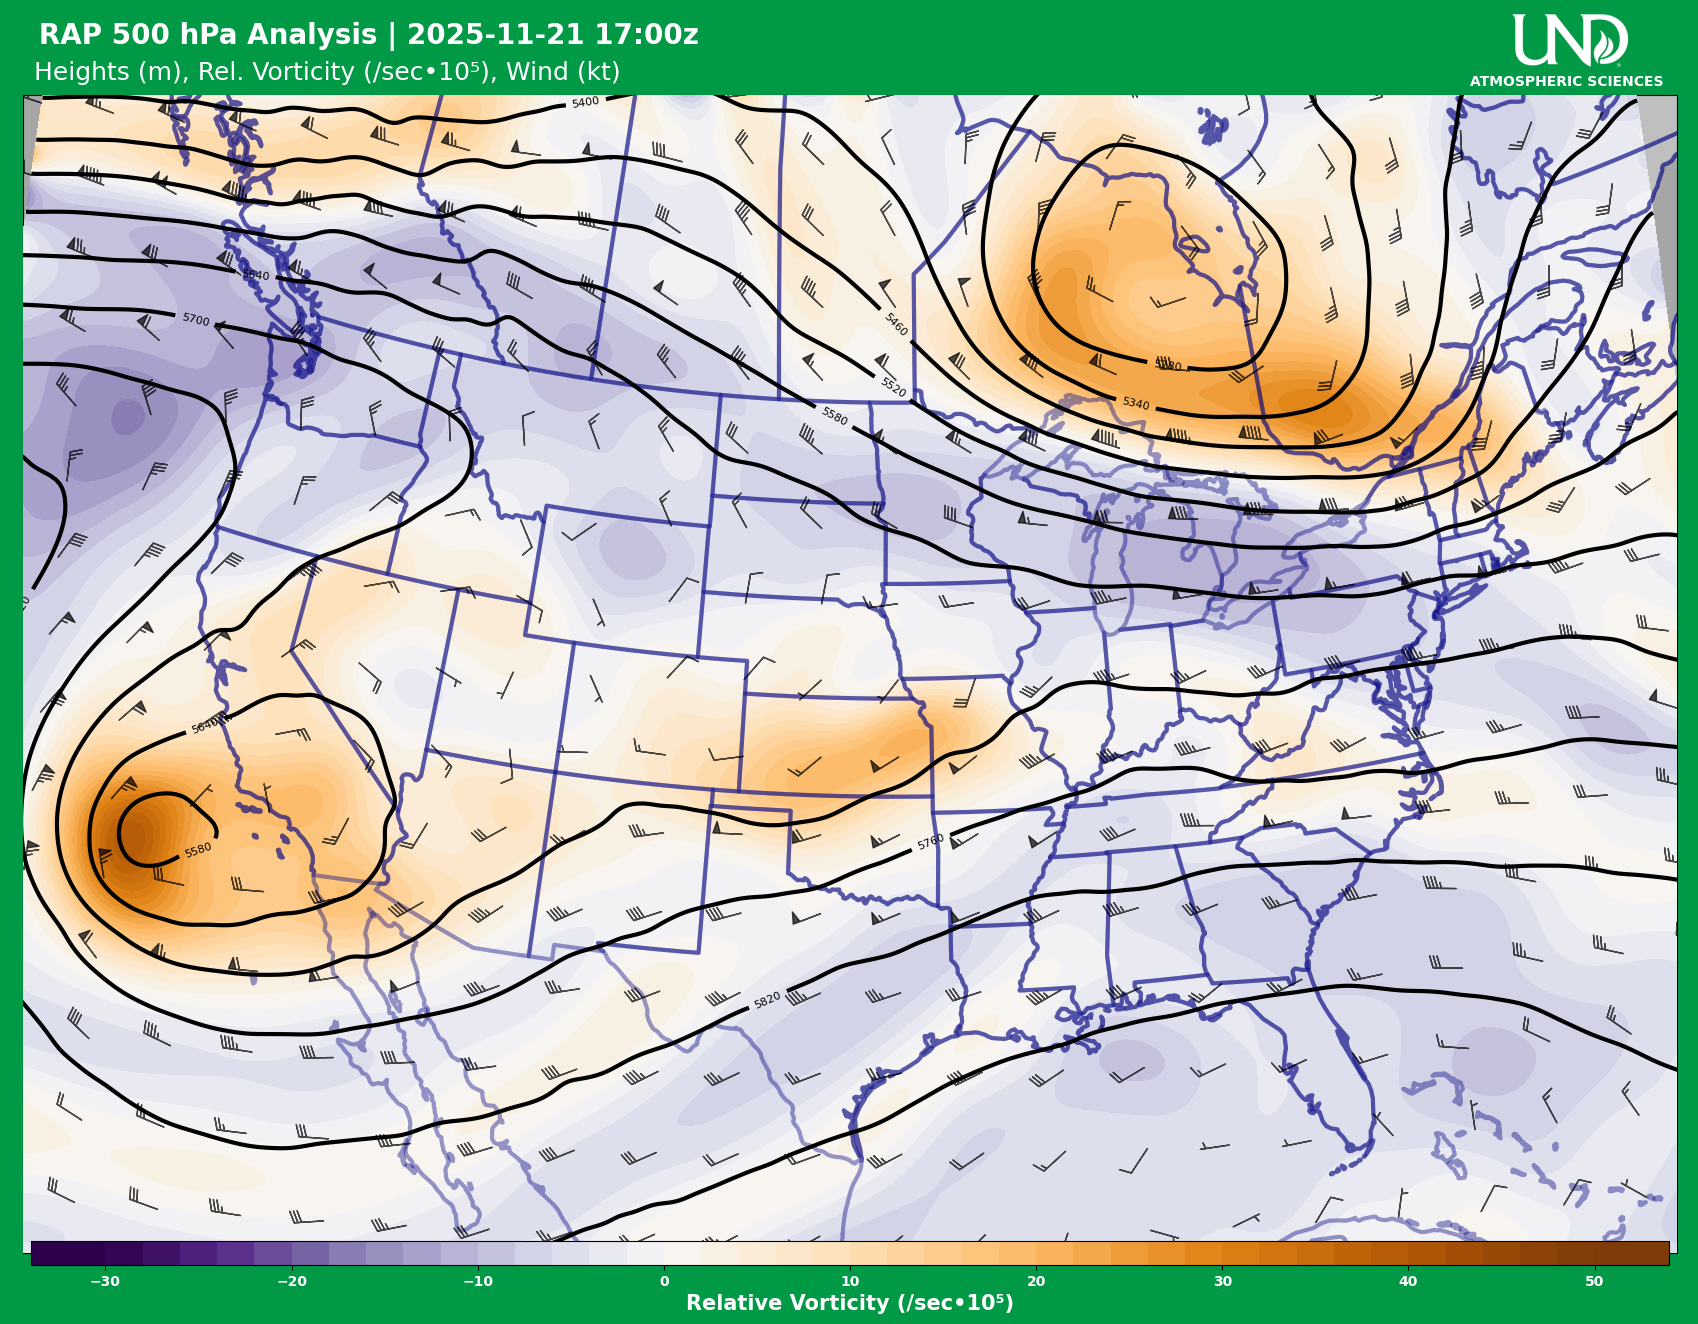
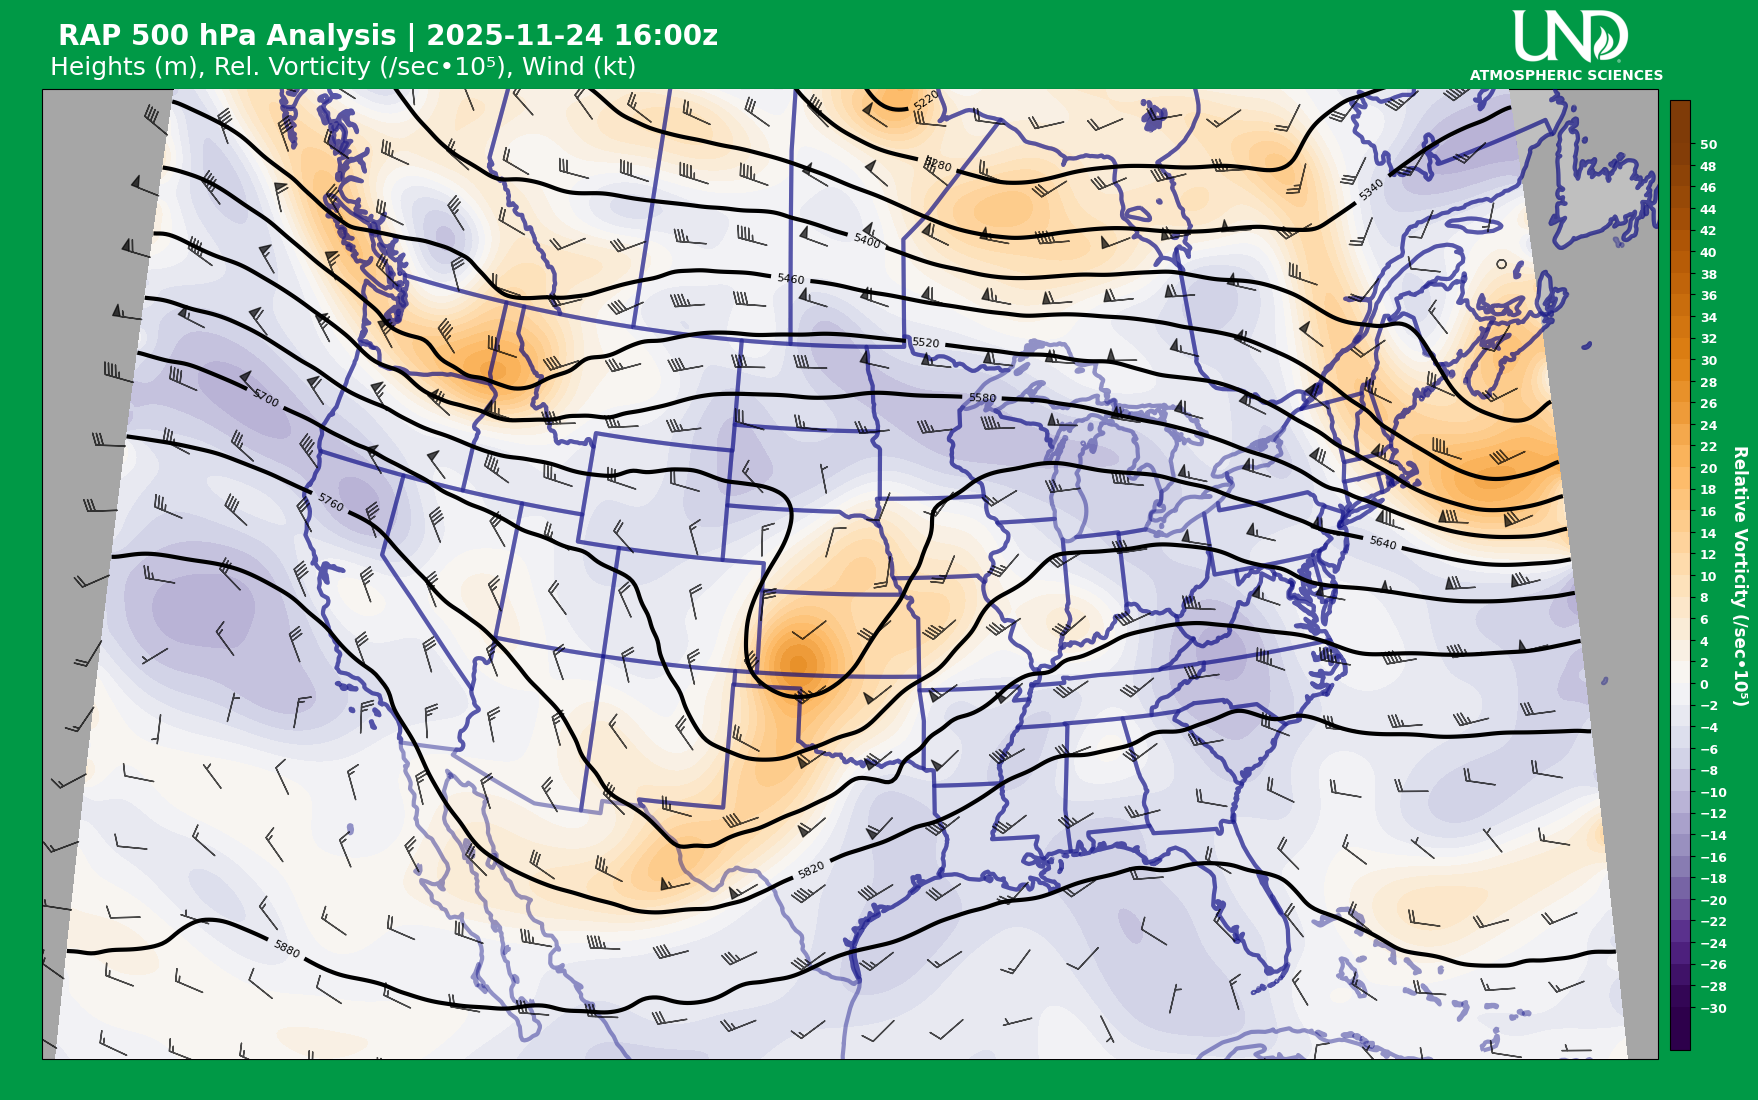
Update RAP analysis figsize, aspect, colorbars, domain size, and background img tile

diff --git a/build_figures/build_conus_rap_analysis.py b/build_figures/build_conus_rap_analysis.py
@@ -61,7 +61,7 @@ utc_now = [utc_date.strftime("%Y"), utc_date.strftime("%m"), utc_date.strftime("
 # set up rap retrieval 
 center_lat = 46.841203
 center_lon = -98.777673
-box_size   = 35
+box_size   = 50
 west = center_lon  - box_size
 east = center_lon  + box_size
 south = center_lat - box_size
@@ -235,13 +235,13 @@ xrds.close()
 #############################################################################################################################################################################
 
 # build map function
-def build_map(extent=[-122, -73, 21, 56], projection=ccrs.LambertConformal(), style='light'):
-    fig = plt.figure(figsize=(20, 12))
+def build_map(extent=[-122, -73, 21, 56], add_sat=False, projection=ccrs.LambertConformal(), style='light'):
+    fig = plt.figure(figsize=(20, 10))
     fig.set_facecolor('#009946')
     ax = plt.axes(projection=projection)
 
     ax.set_extent(extent)
-    ax.set_box_aspect(0.7)
+    ax.set_box_aspect(0.6)
 
     if style == 'light':
         color = 'gray'
@@ -251,9 +251,13 @@ def build_map(extent=[-122, -73, 21, 56], projection=ccrs.LambertConformal(), st
         alpha = 0.8
 
     ax.add_feature(cfeature.STATES, edgecolor='navy', alpha=0.4, linestyle='-', linewidth=3, zorder=10)
-    ax.add_feature(cfeature.LAND, facecolor=color, alpha=alpha, zorder=1)
+    ax.add_feature(cfeature.LAND, facecolor=color, alpha=alpha, zorder=0.1)
     ax.add_feature(cfeature.OCEAN, facecolor=color, alpha=alpha + 0.2, zorder=0)
     ax.add_feature(cfeature.COASTLINE, color='navy', alpha=0.4, linestyle='-', linewidth=3, zorder=11)
+    if add_sat:
+        from cartopy.io import img_tiles
+        satellite = img_tiles.GoogleTiles(style='satellite')
+        ax.add_image(satellite, 4)
 
     plt.tight_layout()
 
@@ -272,7 +276,7 @@ def build_map(extent=[-122, -73, 21, 56], projection=ccrs.LambertConformal(), st
 #################################
 # BUILD 300 HPA MAP
 #################################
-fig, ax = build_map()
+fig, ax = build_map(add_sat=True)
 
 # slice data
 plev300 = np.where(pres_levs == 300)[0][0]
@@ -289,7 +293,7 @@ plt.clabel(contour, fontsize=8, inline=1, inline_spacing=10, fmt='%i',
            rightside_up=True, use_clabeltext=True)
 
 # plot 300 hpa wind speed
-contourf = ax.contourf(lons, lats, wdsp_300, np.arange(50, 160, 5), extend='both',
+contourf = ax.contourf(lons, lats, wdsp_300, np.arange(50, 160, 5), extend='max',
                  cmap=wdsp_cmap, alpha=0.7, transform=ccrs.PlateCarree(), zorder=4)
 
 # plot 300 hpa wind barbs
@@ -298,16 +302,20 @@ barbs = ax.barbs(lons.values[0::every, 0::every], lats.values[0::every, 0::every
                 uwnd_300[0::every, 0::every], vwnd_300[0::every, 0::every],
                 length=6.5, alpha=0.7, transform=ccrs.PlateCarree(), zorder=12)
 
+
 # plot title, add one to the left with model name and data names, add another to the right with time info
-plt.figtext(0.08, 1.03, f'   RAP 300 hPa Analysis | {valid_date[0:10]} {valid_date[11:-13]}z', weight='bold', ha='left', fontsize=20, color='white')
-plt.figtext(0.08, 1.00, f'   Heights (m), Wind (kt)', ha='left', fontsize=18, color='white')
+plt.figtext(0.08, 1.03, f'     RAP 300 hPa Analysis | {valid_date[0:10]} {valid_date[11:-13]}z', weight='bold', ha='left', fontsize=20, color='white')
+plt.figtext(0.08, 1.00, f'     Heights (m), Wind (kt)', ha='left', fontsize=18, color='white')
 plt.figtext(0.915, 1.04, f' ', ha='left', fontsize=20)
-# colorbar for filled contour
-cbar = plt.colorbar(contourf, aspect=70, fraction=0.02, ax=ax, orientation='horizontal', pad=-0.01, extendrect=True)
-cbar.set_label('Wind Speed (kts)', fontsize=15, color='white', fontweight='bold')
-cbar.ax.tick_params(labelcolor='white')
-for t in cbar.ax.get_xticklabels():
+plt.figtext(0.915, -0.01, f' ', ha='left', fontsize=20)
+cax = fig.add_axes([0.91, 0.024, 0.01, 0.95])
+cbar = fig.colorbar(contourf, cax=cax, orientation='vertical', ticks=np.arange(50, 160, 5)[::1], extendrect=True)
+cax.text(3, 0.5, f'Wind Speed (kts)',ha='left',va='center',rotation=270, color='white',fontsize=12,fontweight='bold',transform=cax.transAxes)
+cbar.ax.tick_params(axis='y', labelcolor='white') 
+for t in cbar.ax.get_yticklabels():
     t.set_fontweight('bold')
+    t.set_fontsize(9)
+cbar.ax.set_facecolor('black')
 
 # add UND logo
 from PIL import Image
@@ -367,15 +375,18 @@ barbs = ax.barbs(lons.values[0::every, 0::every], lats.values[0::every, 0::every
                 length=6.5, alpha=0.7, transform=ccrs.PlateCarree(), zorder=11)
 
 # plot title, add one to the left with model name and data names, add another to the right with time info
-plt.figtext(0.08, 1.03, f'   RAP 300 hPa Analysis | {valid_date[0:10]} {valid_date[11:-13]}z', weight='bold', ha='left', fontsize=20, color='white')
-plt.figtext(0.08, 1.00, f'   Heights (m), Potential Vorticity (PVU), Wind (kt)', ha='left', fontsize=18, color='white')
+plt.figtext(0.08, 1.03, f'     RAP 300 hPa Analysis | {valid_date[0:10]} {valid_date[11:-13]}z', weight='bold', ha='left', fontsize=20, color='white')
+plt.figtext(0.08, 1.00, f'     Heights (m), Potential Vorticity (PVU), Wind (kt)', ha='left', fontsize=18, color='white')
 plt.figtext(0.915, 1.04, f' ', ha='left', fontsize=20)
-# colorbar for filled contour
-cbar = plt.colorbar(contourf, aspect=70, fraction=0.02, ax=ax, orientation='horizontal', pad=-0.01, extendrect=True)
-cbar.set_label(r'Potential Vorticity Units (PVU; $\rm{10^{-6}\ K\ kg^{-1}\ m^{2}\ s^{-1}})$' + ' | 2PVU (dashed)',  fontsize=15, color='white', fontweight='bold')
-cbar.ax.tick_params(labelcolor='white')
-for t in cbar.ax.get_xticklabels():
+plt.figtext(0.915, -0.01, f' ', ha='left', fontsize=20)
+cax = fig.add_axes([0.91, 0.024, 0.01, 0.95])
+cbar = fig.colorbar(contourf, cax=cax, orientation='vertical', ticks=pv_clevs[::5], extendrect=True)
+cax.text(3, 0.5, r'Potential Vorticity Units (PVU; $\rm{10^{-6}\ K\ kg^{-1}\ m^{2}\ s^{-1}})$' + ' | 2PVU (dashed)', ha='left',va='center',rotation=270, color='white',fontsize=12,fontweight='bold',transform=cax.transAxes)
+cbar.ax.tick_params(axis='y', labelcolor='white') 
+for t in cbar.ax.get_yticklabels():
     t.set_fontweight('bold')
+    t.set_fontsize(9)
+cbar.ax.set_facecolor('black')
 
 
 # add UND logo
@@ -407,7 +418,7 @@ print("    FINISHED 300HPA PVA MAP")
 #################################
 # BUILD 500HPA FLOW MAP
 #################################
-fig, ax = build_map()
+fig, ax = build_map(add_sat=True)
 
 # slice data 
 plev500 = np.where(pres_levs == 500)[0][0]
@@ -425,7 +436,7 @@ plt.clabel(contour, fontsize=8, inline=1, inline_spacing=10, fmt='%i',
            rightside_up=True, use_clabeltext=True)
 
 # plot 500hpa wind speed
-contourf = ax.contourf(lons, lats, wdsp_500, np.arange(30, 140, 5), extend='both',
+contourf = ax.contourf(lons, lats, wdsp_500, np.arange(30, 140, 5), extend='max',
                  cmap=wdsp_cmap, alpha=0.7, transform=ccrs.PlateCarree(), zorder=4)
 
 # plot 500 hpa wind barbs
@@ -435,15 +446,18 @@ barbs = ax.barbs(lons.values[0::every, 0::every], lats.values[0::every, 0::every
                 length=6.5, alpha=0.7, transform=ccrs.PlateCarree(), zorder=12)
 
 # plot title, add one to the left with model name and data names, add another to the right with time info
-plt.figtext(0.08, 1.03, f'   RAP 500 hPa Analysis | {valid_date[0:10]} {valid_date[11:-13]}z', weight='bold', ha='left', fontsize=20, color='white')
-plt.figtext(0.08, 1.00, f'   Heights (m), Wind (kt)', ha='left', fontsize=18, color='white')
+plt.figtext(0.08, 1.03, f'     RAP 500 hPa Analysis | {valid_date[0:10]} {valid_date[11:-13]}z', weight='bold', ha='left', fontsize=20, color='white')
+plt.figtext(0.08, 1.00, f'     Heights (m), Wind (kt)', ha='left', fontsize=18, color='white')
 plt.figtext(0.915, 1.04, f' ', ha='left', fontsize=20)
-# colorbar for filled contour
-cbar = plt.colorbar(contourf, aspect=70, fraction=0.02, ax=ax, orientation='horizontal', pad=-0.01, extendrect=True)
-cbar.set_label('Wind Speed (kts)',  fontsize=15, color='white', fontweight='bold')
-cbar.ax.tick_params(labelcolor='white')
-for t in cbar.ax.get_xticklabels():
+plt.figtext(0.915, -0.01, f' ', ha='left', fontsize=20)
+cax = fig.add_axes([0.91, 0.024, 0.01, 0.95])
+cbar = fig.colorbar(contourf, cax=cax, orientation='vertical', ticks=np.arange(30, 140, 5), extendrect=True)
+cax.text(3, 0.5, 'Wind Speed (kts)', ha='left',va='center',rotation=270, color='white',fontsize=12,fontweight='bold',transform=cax.transAxes)
+cbar.ax.tick_params(axis='y', labelcolor='white') 
+for t in cbar.ax.get_yticklabels():
     t.set_fontweight('bold')
+    t.set_fontsize(9)
+cbar.ax.set_facecolor('black')
 
 
 # add UND logo
@@ -508,16 +522,18 @@ barbs = ax.barbs(lons.values[0::every, 0::every], lats.values[0::every, 0::every
                 length=6.5, alpha=0.7, transform=ccrs.PlateCarree(), zorder=12)
 
 # plot title, add one to the left with model name and data names, add another to the right with time info
-plt.figtext(0.08, 1.03, f'   RAP 500 hPa Analysis | {valid_date[0:10]} {valid_date[11:-13]}z', weight='bold', ha='left', fontsize=20, color='white')
-plt.figtext(0.08, 1.00, f'   Heights (m), Rel. Vorticity (/sec•10⁵), Wind (kt)', ha='left', fontsize=18, color='white')
+plt.figtext(0.08, 1.03, f'     RAP 500 hPa Analysis | {valid_date[0:10]} {valid_date[11:-13]}z', weight='bold', ha='left', fontsize=20, color='white')
+plt.figtext(0.08, 1.00, f'     Heights (m), Rel. Vorticity (/sec•10⁵), Wind (kt)', ha='left', fontsize=18, color='white')
 plt.figtext(0.915, 1.04, f' ', ha='left', fontsize=20)
-# colorbar for filled contour
-cbar = plt.colorbar(vort_cf, aspect=70, fraction=0.02, ax=ax, orientation='horizontal', pad=-0.01, extendrect=True)
-cbar.set_label('Relative Vorticity (/sec•10⁵)',  fontsize=15, color='white', fontweight='bold')
-cbar.ax.tick_params(labelcolor='white')
-for t in cbar.ax.get_xticklabels():
+plt.figtext(0.915, -0.01, f' ', ha='left', fontsize=20)
+cax = fig.add_axes([0.91, 0.024, 0.01, 0.95])
+cbar = fig.colorbar(vort_cf, cax=cax, orientation='vertical', ticks=np.arange(-30, 52, 2), extendrect=True)
+cax.text(3, 0.5, 'Relative Vorticity (/sec•10⁵)', ha='left',va='center',rotation=270, color='white',fontsize=12,fontweight='bold',transform=cax.transAxes)
+cbar.ax.tick_params(axis='y', labelcolor='white') 
+for t in cbar.ax.get_yticklabels():
     t.set_fontweight('bold')
-
+    t.set_fontsize(9)
+cbar.ax.set_facecolor('black')
 
 
 # add UND logo
@@ -573,15 +589,18 @@ barbs = ax.barbs(lons.values[0::every, 0::every], lats.values[0::every, 0::every
                 length=6.5, alpha=0.7, transform=ccrs.PlateCarree(), zorder=12)
 
 # plot title, add one to the left with model name and data names, add another to the right with time info
-plt.figtext(0.08, 1.03, f'   RAP 500 hPa Analysis | {valid_date[0:10]} {valid_date[11:-13]}z', weight='bold', ha='left', fontsize=20, color='white')
-plt.figtext(0.08, 1.00, f'   Heights (m), Rel. Vorticity Adv. (sec⁻²•10⁹), Wind (kt)', ha='left', fontsize=18, color='white')
+plt.figtext(0.08, 1.03, f'     RAP 500 hPa Analysis | {valid_date[0:10]} {valid_date[11:-13]}z', weight='bold', ha='left', fontsize=20, color='white')
+plt.figtext(0.08, 1.00, f'     Heights (m), Rel. Vorticity Adv. (sec⁻²•10⁹), Wind (kt)', ha='left', fontsize=18, color='white')
 plt.figtext(0.915, 1.04, f' ', ha='left', fontsize=20)
-# colorbar for filled contour
-cbar = plt.colorbar(vortadv_cf, aspect=70, fraction=0.02, ax=ax, orientation='horizontal', pad=-0.01, extendrect=True)
-cbar.set_label('Relative Vorticity Advection (sec⁻²•10⁹)',  fontsize=15, color='white', fontweight='bold')
-cbar.ax.tick_params(labelcolor='white')
-for t in cbar.ax.get_xticklabels():
+plt.figtext(0.915, -0.01, f' ', ha='left', fontsize=20)
+cax = fig.add_axes([0.91, 0.024, 0.01, 0.95])
+cbar = fig.colorbar(vortadv_cf, cax=cax, orientation='vertical', ticks=np.arange(-40, 42, 2), extendrect=True)
+cax.text(3, 0.5, 'Relative Vorticity Advection (sec⁻²•10⁹)', ha='left',va='center',rotation=270, color='white',fontsize=12,fontweight='bold',transform=cax.transAxes)
+cbar.ax.tick_params(axis='y', labelcolor='white') 
+for t in cbar.ax.get_yticklabels():
     t.set_fontweight('bold')
+    t.set_fontsize(9)
+cbar.ax.set_facecolor('black')
 
 # add UND logo
 from PIL import Image
@@ -649,15 +668,19 @@ barbs = ax.barbs(lons.values[0::every, 0::every], lats.values[0::every, 0::every
                 length=6.5, alpha=0.7, transform=ccrs.PlateCarree(), zorder=11)
 
 # plot title, add one to the left with model name and data names, add another to the right with time info
-plt.figtext(0.08, 1.03, f'   RAP 850 hPa Analysis | {valid_date[0:10]} {valid_date[11:-13]}z', weight='bold', ha='left', fontsize=20, color='white')
-plt.figtext(0.08, 1.00, f'   Heights (m), 3hr Temperature Adv (C/3hr), Frontogenesis (>2'+u'\xb0'+'C / 100km / 3hr), Wind (kt)', ha='left', fontsize=18, color='white')
+plt.figtext(0.08, 1.03, f'     RAP 850 hPa Analysis | {valid_date[0:10]} {valid_date[11:-13]}z', weight='bold', ha='left', fontsize=20, color='white')
+plt.figtext(0.08, 1.00, f'     Heights (m), 3hr Temperature Adv (C/3hr), Frontogenesis (>2'+u'\xb0'+'C / 100km / 3hr), Wind (kt)', ha='left', fontsize=18, color='white')
 plt.figtext(0.915, 1.04, f' ', ha='left', fontsize=20)
-# colorbar for filled contour
-cbar = plt.colorbar(tadv_contourf, aspect=70, fraction=0.02, ax=ax, orientation='horizontal', pad=-0.01, extendrect=True)
-cbar.set_label('Temperature Advection' + ' ('+u'\xb0'+'C / 3hr)',  fontsize=15, color='white', fontweight='bold')
-cbar.ax.tick_params(labelcolor='white')
-for t in cbar.ax.get_xticklabels():
+plt.figtext(0.915, -0.01, f' ', ha='left', fontsize=20)
+cax = fig.add_axes([0.91, 0.024, 0.01, 0.95])
+cbar = fig.colorbar(tadv_contourf, cax=cax, orientation='vertical', ticks=np.arange(-7,7.25,1), extendrect=True)
+cax.text(3, 0.5, 'Temperature Advection' + ' ('+u'\xb0'+'C / 3hr)', ha='left',va='center',rotation=270, color='white',fontsize=12,fontweight='bold',transform=cax.transAxes)
+cbar.ax.tick_params(axis='y', labelcolor='white') 
+for t in cbar.ax.get_yticklabels():
     t.set_fontweight('bold')
+    t.set_fontsize(9)
+cbar.ax.set_facecolor('black')
+
 
 # add UND logo
 from PIL import Image
@@ -732,15 +755,18 @@ barbs = ax.barbs(lons.values[0::every, 0::every], lats.values[0::every, 0::every
                 length=6.5, alpha=0.7, transform=ccrs.PlateCarree(), zorder=11)
 
 # plot title, add one to the left with model name and data names, add another to the right with time info
-plt.figtext(0.08, 1.03, f'   RAP 850 hPa Analysis | {valid_date[0:10]} {valid_date[11:-13]}z', weight='bold', ha='left', fontsize=20, color='white')
-plt.figtext(0.08, 1.00, f'   Heights (m), Temperature (C), Wind (kts)', ha='left', fontsize=18, color='white')
+plt.figtext(0.08, 1.03, f'     RAP 850 hPa Analysis | {valid_date[0:10]} {valid_date[11:-13]}z', weight='bold', ha='left', fontsize=20, color='white')
+plt.figtext(0.08, 1.00, f'     Heights (m), Temperature (C), Wind (kts)', ha='left', fontsize=18, color='white')
 plt.figtext(0.915, 1.04, f' ', ha='left', fontsize=20)
-# colorbar for filled contour
-cbar = plt.colorbar(contourf, aspect=70, fraction=0.02, ax=ax, orientation='horizontal', pad=-0.01, extendrect=True)
-cbar.set_label('Temperature (C)',  fontsize=15, color='white', fontweight='bold')
-cbar.ax.tick_params(labelcolor='white')
-for t in cbar.ax.get_xticklabels():
+plt.figtext(0.915, -0.01, f' ', ha='left', fontsize=20)
+cax = fig.add_axes([0.91, 0.024, 0.01, 0.95])
+cbar = fig.colorbar(contourf, cax=cax, orientation='vertical', ticks=np.arange(-40, 42, 5), extendrect=True)
+cax.text(3, 0.5, 'Temperature (C)', ha='left',va='center',rotation=270, color='white',fontsize=12,fontweight='bold',transform=cax.transAxes)
+cbar.ax.tick_params(axis='y', labelcolor='white') 
+for t in cbar.ax.get_yticklabels():
     t.set_fontweight('bold')
+    t.set_fontsize(9)
+cbar.ax.set_facecolor('black')
 
 # add UND logo
 from PIL import Image
@@ -797,12 +823,15 @@ barbs = ax.barbs(lons.values[0::every, 0::every], lats.values[0::every, 0::every
 plt.figtext(0.08, 1.03, f'   RAP Surface Analysis | {valid_date[0:10]} {valid_date[11:-13]}z', weight='bold', ha='left', fontsize=20, color='white')
 plt.figtext(0.08, 1.00, f'   MSLP (hPa), Temperature (C), Wind (kts)', ha='left', fontsize=18, color='white')
 plt.figtext(0.915, 1.04, f' ', ha='left', fontsize=20)
-# colorbar for filled contour
-cbar = plt.colorbar(contourf, aspect=70, fraction=0.02, ax=ax, orientation='horizontal', pad=-0.01, extendrect=True)
-cbar.set_label('Temperature (C)',  fontsize=15, color='white', fontweight='bold')
-cbar.ax.tick_params(labelcolor='white')
-for t in cbar.ax.get_xticklabels():
+plt.figtext(0.915, -0.01, f' ', ha='left', fontsize=20)
+cax = fig.add_axes([0.91, 0.024, 0.01, 0.95])
+cbar = fig.colorbar(contourf, cax=cax, orientation='vertical', ticks=np.arange(-50, 51, 5), extendrect=True)
+cax.text(3, 0.5, 'Temperature (C)', ha='left',va='center',rotation=270, color='white',fontsize=12,fontweight='bold',transform=cax.transAxes)
+cbar.ax.tick_params(axis='y', labelcolor='white') 
+for t in cbar.ax.get_yticklabels():
     t.set_fontweight('bold')
+    t.set_fontsize(9)
+cbar.ax.set_facecolor('black')
 
 # add UND logo
 from PIL import Image
@@ -875,15 +904,25 @@ ax.imshow(radiance.values, origin='upper', cmap=ir_greys, vmin=50, vmax=130,
 
 
 # plot title, add one to the left with model name and data names, add another to the right with time info
-plt.figtext(0.08, 1.03, f'   RAP Surface Analysis | {valid_date[0:10]} {valid_date[11:-13]}z', weight='bold', ha='left', fontsize=20, color='white')
-plt.figtext(0.08, 1.00, f'    RAP MSLP (hPa), {metar_time[11:16]}z METARs, {valid_time}z WPC Fronts, {str(radar_time)[11:16]}z Reflectivity Mosaic, {sat_time[0:2]}:{sat_time[2:4]}z GOES19 Radiance', ha='left', fontsize=18, color='white')
+plt.figtext(0.08, 1.03, f'     RAP Surface Analysis | {valid_date[0:10]} {valid_date[11:-13]}z', weight='bold', ha='left', fontsize=20, color='white')
+plt.figtext(0.08, 1.00, f'      RAP MSLP (hPa), {metar_time[11:16]}z METARs, {valid_time}z WPC Fronts, {str(radar_time)[11:16]}z Reflectivity Mosaic, {sat_time[0:2]}:{sat_time[2:4]}z GOES19 Radiance', ha='left', fontsize=18, color='white')
+# plt.figtext(0.915, 1.04, f' ', ha='left', fontsize=20)
+# # colorbar for filled contour
+# cbar = plt.colorbar(pm, aspect=70, fraction=0.02, ax=ax, orientation='horizontal', pad=-0.01, extendrect=True)
+# cbar.set_label('Reflectivity (dBz)',  fontsize=15, color='white', fontweight='bold')
+# cbar.ax.tick_params(labelcolor='white')
+# for t in cbar.ax.get_xticklabels():
+#     t.set_fontweight('bold')
 plt.figtext(0.915, 1.04, f' ', ha='left', fontsize=20)
-# colorbar for filled contour
-cbar = plt.colorbar(pm, aspect=70, fraction=0.02, ax=ax, orientation='horizontal', pad=-0.01, extendrect=True)
-cbar.set_label('Reflectivity (dBz)',  fontsize=15, color='white', fontweight='bold')
-cbar.ax.tick_params(labelcolor='white')
-for t in cbar.ax.get_xticklabels():
+plt.figtext(0.915, -0.01, f' ', ha='left', fontsize=20)
+cax = fig.add_axes([0.91, 0.024, 0.01, 0.95])
+cbar = fig.colorbar(pm, cax=cax, orientation='vertical', ticks=np.arange(-50, 51, 5), extendrect=True)
+cax.text(3, 0.5, 'Reflectivity (dBz)', ha='left',va='center',rotation=270, color='white',fontsize=12,fontweight='bold',transform=cax.transAxes)
+cbar.ax.tick_params(axis='y', labelcolor='white') 
+for t in cbar.ax.get_yticklabels():
     t.set_fontweight('bold')
+    t.set_fontsize(9)
+cbar.ax.set_facecolor('black')
 
 # add UND logo
 from PIL import Image

diff --git a/get_data/get_rap_data.py b/get_data/get_rap_data.py
@@ -76,7 +76,7 @@ def analysis(center_lat=37.86, center_lon=-98.61, box_size=20):
                     'V-Component_Storm_Motion_height_above_ground_layer').add_lonlat()
 
     # Subset data by lat-lon domain
-    query.lonlat_box(north=58.415, west=-139.970, east=-57.269, south=16.209)
+    query.lonlat_box(north=center_lat+box_size, west=center_lon-box_size, east=center_lon+box_size, south=center_lat-box_size)
 
     # Gets data
     ncss_data = ncss.get_data(query)
